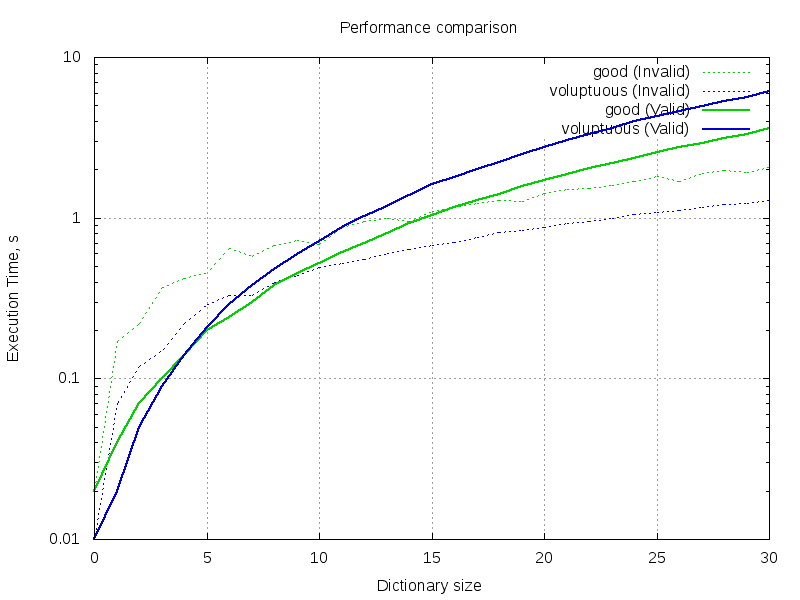
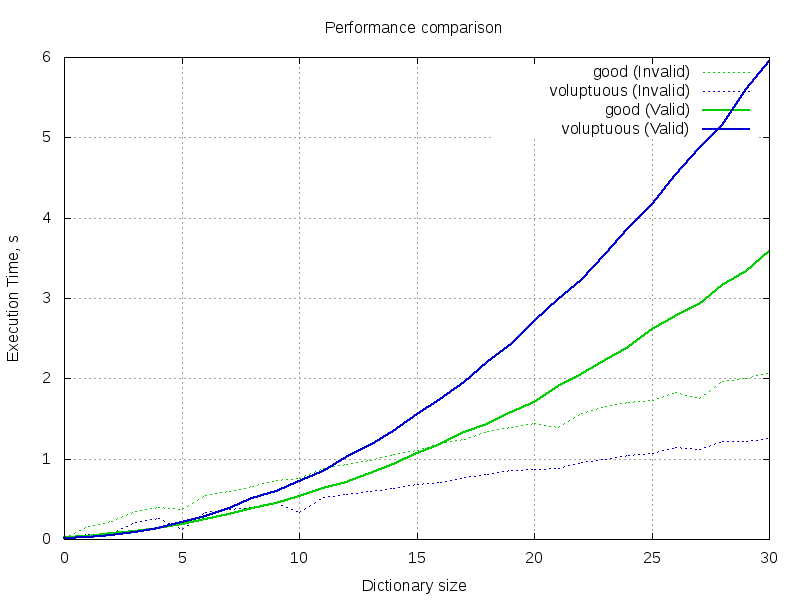
Performance comparison (upd)

diff --git a/misc/performance/performance.py b/misc/performance/performance.py
@@ -149,15 +149,6 @@ if __name__ == '__main__':
                     best_for_size[valid, size],
                     validations_per_second)
 
-    # Calculate averages
-    for (valid, lib_name), stats_list in sorted(results.items()):
-        vps = sum(x['vps'] for x in stats_list) / len(stats_list)
-        print('AVG:{lib:<12} {valid:<8} {vps: 10.2f}'.format(
-            lib=lib_name,
-            valid='Valid' if valid else 'Invalid',
-            vps=vps
-        ), file=sys.stderr)
-
     # Print dataset
     for (valid, lib_name), stats_list in sorted(results.items()):
         # Dataset header
@@ -171,3 +162,12 @@ if __name__ == '__main__':
         for stat in stats_list:
             print('{size: 5d} {sec: 4.2f} {vps: 10.2f}'.format(**stat))
         print('\n')  # split datasets
+
+        # Calculate averages
+    for (valid, lib_name), stats_list in sorted(results.items()):
+        vps = sum(x['vps'] for x in stats_list) / len(stats_list)
+        print('AVG:{lib:<12} {valid:<8} {vps: 10.2f}'.format(
+            lib=lib_name,
+            valid='Valid' if valid else 'Invalid',
+            vps=vps
+        ), file=sys.stderr)

diff --git a/misc/performance/performance.md b/misc/performance/performance.md
@@ -10,6 +10,9 @@ The [test script](performance.py) generates random dictionary schemas,
 increasing its size, and compares how performant both libraries are
 on those schemas.
 
+Solid line shows the performance of successful validations.
+Dashed line shows the performance of invalid values (raising errors).
+
 Validations Per Second
 ----------------------
 
@@ -18,8 +21,8 @@ A "validation" is an attempt to validate a value against the schema only.
 
 <img src="performance-vps.png" />
 
-Keys Per Second
----------------
+Total Execution Time
+--------------------
 
 In this test, we compare how much time a library needs to validate 5000 dictionaries
 with a schema.
